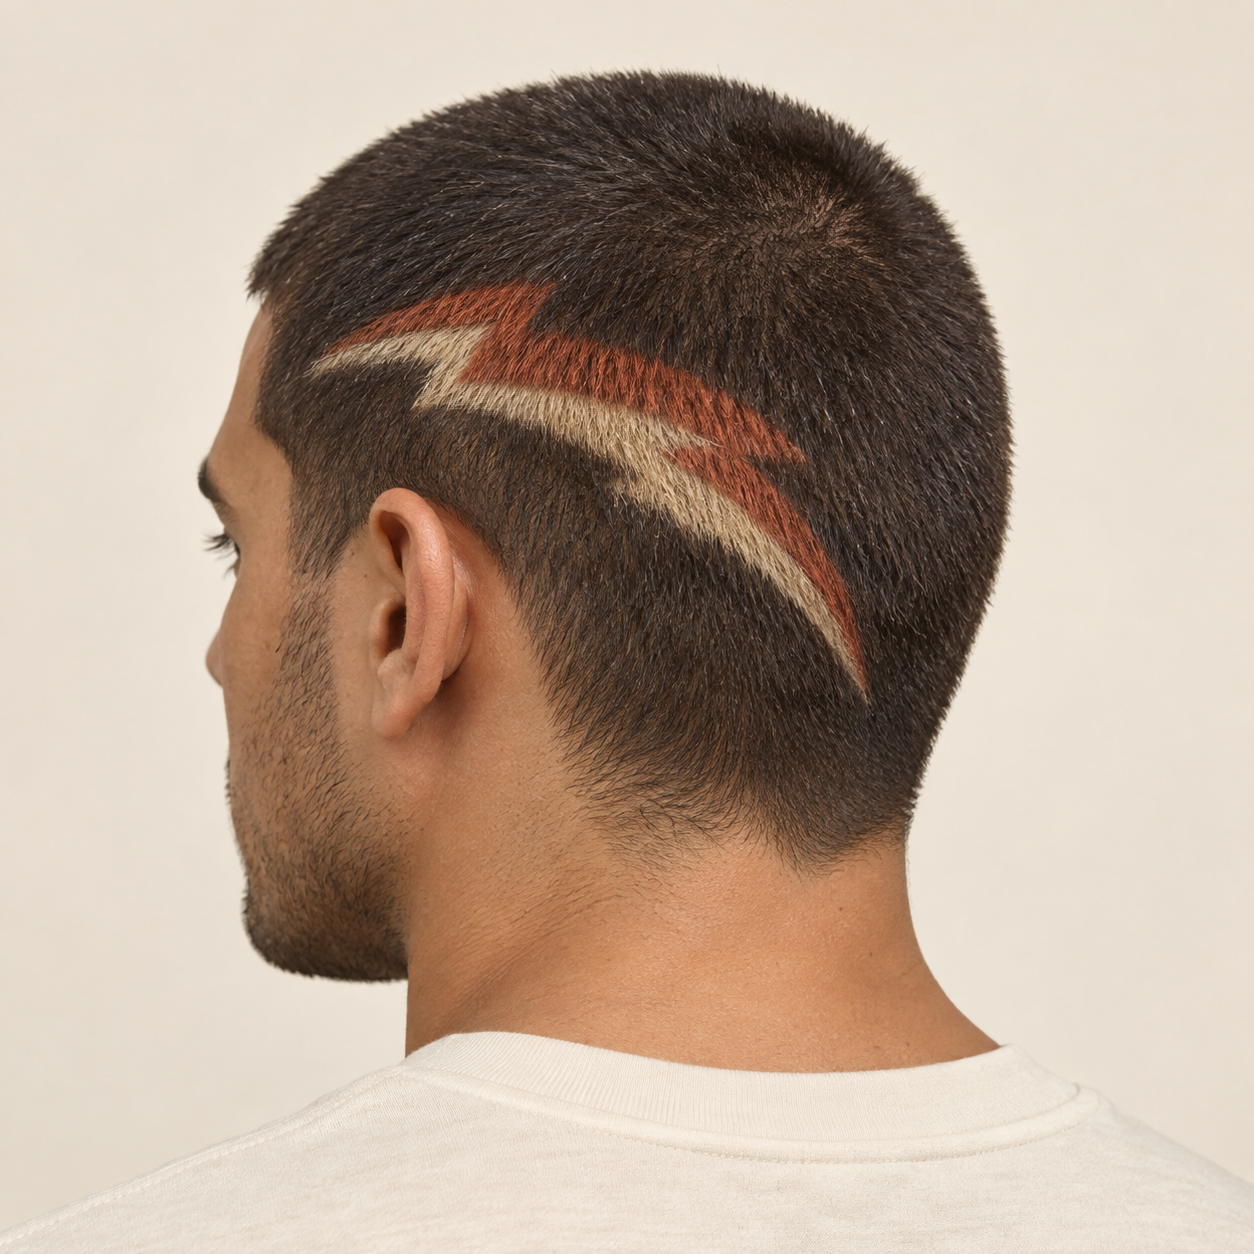
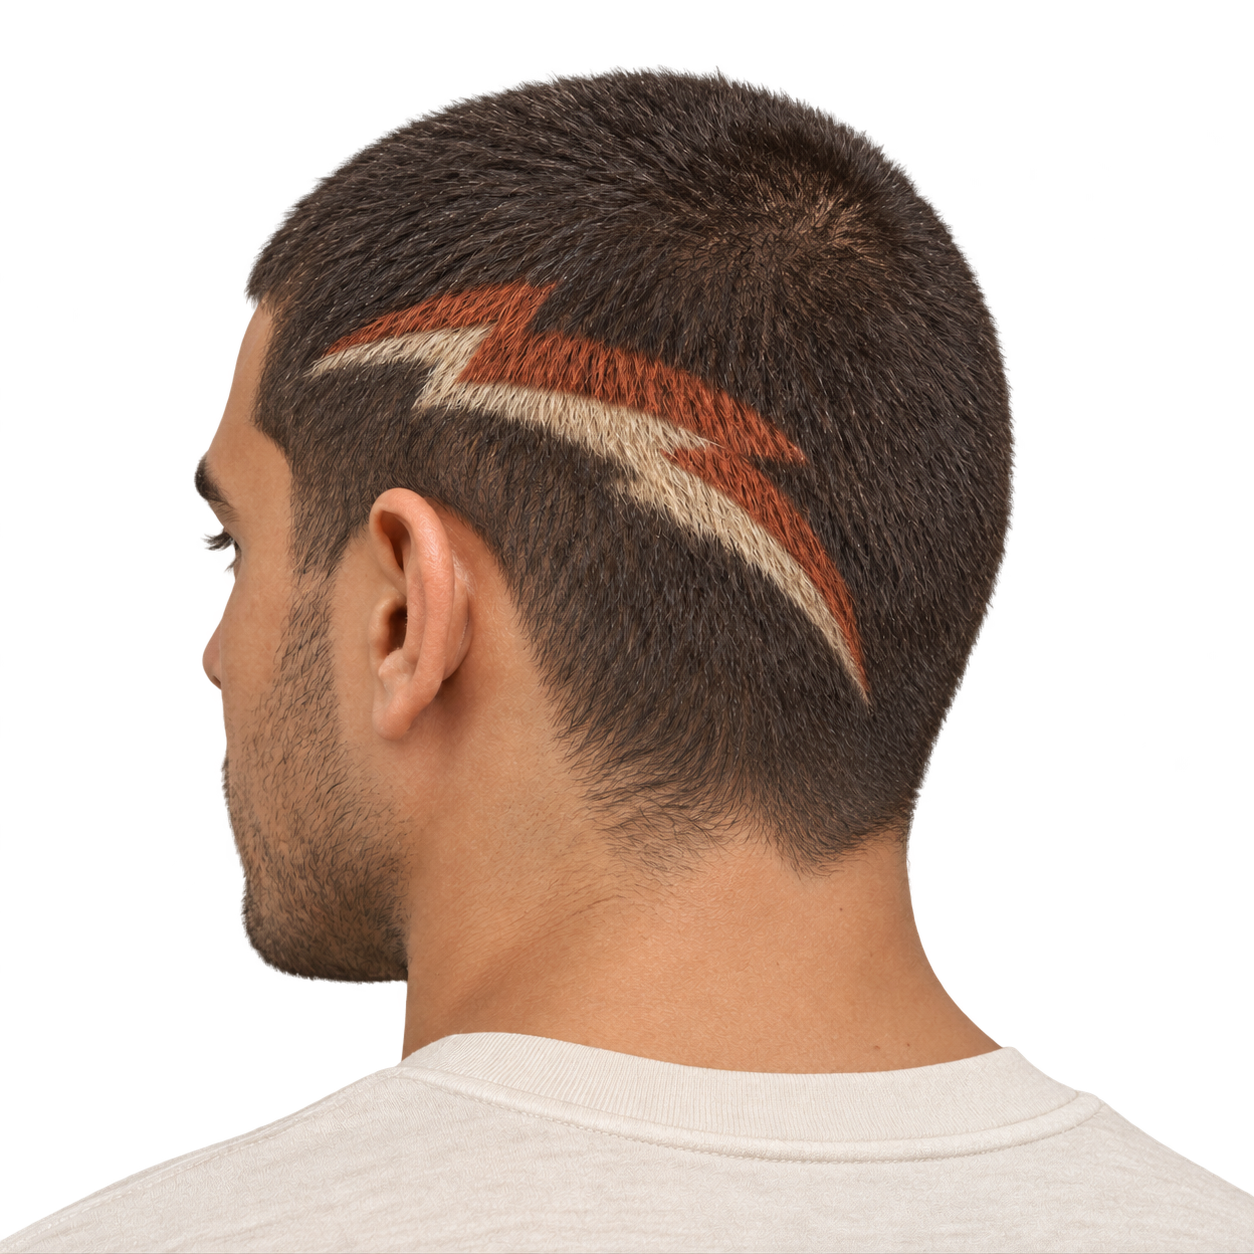
fix(media): replace 12 hairstyle gallery portraits

diff --git a/docs/media/hairstyle-image-prompts.md b/docs/media/hairstyle-image-prompts.md
@@ -1,10 +1,10 @@
 # Hairstyle image prompts
 
-The prompts below are retained verbatim as generation records. Their instruction to show an AI-generated label was superseded when the visual labels were removed; generated provenance remains in `src/content/media/`.
+Historical prompts are retained as generation records. Some originally requested an AI-generated label, which the site no longer displays. Generated provenance remains in `src/content/media/`.
 
 ## Flat-top additions — 2026-09-21
 
-Generated with OpenAI's built-in image generation tool after the Will Smith page and flat-top stub were pushed in commit `0b6d201`. No specific model identifier was returned. These fictional adults are not Will Smith, archive photographs, or reconstructions of his appearances. Inspected for a visible flat-top silhouette, complete hair framing, and absence of text or logos. Original generated PNGs are retained and their provenance is recorded in the media data.
+Generated with OpenAI's built-in image generation tool after the Will Smith page and flat-top stub were pushed in commit `0b6d201`. No specific model identifier was returned. These fictional adults are not Will Smith, archive photographs, or reconstructions of his appearances. Inspected for a visible flat-top silhouette, complete hair framing, and absence of text or logos. Generated provenance is recorded in the media data. See the gallery portrait replacements below for the updated coily flat-top image.
 
 ### flat-top-coily
 
@@ -20,7 +20,7 @@ Use case: photorealistic-natural. Asset: one square original editorial hairstyle
 
 ## Original collection
 
-Generated 2026-09-20 using OpenAI's built-in image generation tool. No specific model identifier was returned. These are fictional AI-generated reference portraits, not real clients or evidence of a person's natural hair subtype. Original PNGs are retained; Astro produces responsive WebP derivatives, and the media data preserves their generated provenance.
+Generated 2026-09-20 using OpenAI's built-in image generation tool. No specific model identifier was returned. These are fictional AI-generated reference portraits, not real clients or evidence of a person's natural hair subtype. Astro produces responsive WebP derivatives, and the media data preserves generated provenance. See the gallery portrait replacements below for updated assets.
 
 Prompts are art direction, not verified measurements of the output. Editorial captions describe visible features only.
 
@@ -333,3 +333,24 @@ Square photorealistic editorial hairstyle reference portrait. Fictional adult ma
 Asset: `src/content/assets/hairstyles/graphic-hair-color-geometric.png`
 
 Square photorealistic editorial hairstyle reference portrait. Fictional adult man with medium warm olive skin and very short even dark-brown clipper-cut hair, three-quarter rear-left angle showing rear scalp, left ear, and silhouette. A sharp two-tone geometric lightning arc colored into the short hair in muted copper-red and pale cream against natural dark brown; follows hair strands, not ink on skin, not a shaved groove, not a mohawk. Plain warm ivory studio background, cream shirt, soft daylight, realistic short hair texture. Full crown and all hair in frame. Single portrait; no collage, text, watermark, logos, hats, or celebrity likeness. Illustrative generated example, not a real person's photograph.
+
+## Gallery portrait replacements — 2026-11-21
+
+The following gallery images were regenerated with OpenAI's built-in image generation tool. Use these updated directions for future replacements. Each is a square editorial portrait of one fictional adult with a genuinely transparent RGBA background, soft neutral lighting, natural skin texture, simple cream clothing, and the full hair silhouette in frame. Use a tight head-and-shoulders crop with a little space above the hair. Angle the face away from straight-on, or show a rear three-quarter view when the haircut detail is at the back.
+
+| Asset stem                              | Haircut and composition direction                                                                                                                                         |
+| --------------------------------------- | ------------------------------------------------------------------------------------------------------------------------------------------------------------------------- |
+| `rihanna-bob-example`                   | Compact rounded asymmetrical bob on a fictional Black woman, with a deep side part and long swept fringe. Show the finished perimeter and the sweep of the fringe.        |
+| `buzz-short`                            | Uniform, very short brown buzz with visible fine stubble and no fade, on a light-skinned, freckled, androgynous adult. Show the temple and crown in three-quarter view.   |
+| `cillian-disconnected-undercut-example` | Long textured dark top over closely clipped sides with an abrupt, visible break at the temple. Use a side-biased three-quarter angle.                                     |
+| `flat-top-coily`                        | Low horizontal top plane with squared corners and graduated short sides, on a deep-brown-skinned man with tightly coiled hair and a short beard.                          |
+| `cillian-french-crop-example`           | Short textured crop with a forward fringe and sides blended into the top. Use a three-quarter view that clearly shows the fringe and temple.                              |
+| `graphic-hair-color-geometric`          | A copper-and-cream geometric lightning arc dyed into a very short dark crop. Show the design from the rear in three-quarter view.                                         |
+| `brad-pitt-long-waves-example`          | Medium-long layered waves with a near-center part. Keep the crown and layered ends visible in the square crop.                                                            |
+| `brad-pitt-swept-back-example`          | Medium-length hair swept back above a neat taper. Show the sweep and transition near the ear in three-quarter view.                                                       |
+| `ronaldo-2002-haircut-front`            | Broad, dense half-circle at the front hairline with the rest of the scalp shaved close. Use a slightly elevated three-quarter view and have the subject look to the side. |
+| `taper-coily`                           | Tight coils on top, with a low taper localized to the sideburn and nape. Use a rear three-quarter view to show the taper.                                                 |
+| `lady-gaga-top-knot-example`            | Dark hair gathered into a high top knot, with the entire bun visible and room between it and the top edge.                                                                |
+| `twists-long`                           | Jaw-length natural two-strand twists on a fictional Black woman. Show two-strand structure, soft sectioning at the crown, and the ends in three-quarter view.             |
+
+Use the match photo to reference the shape and placement of the Ronaldo patch. [2002 World Cup reference](https://www.90min.com/it/posts/30-giugno-2002-il-brasile-di-ronaldo-batte-la-germania-2-0-e-il-quinto-titolo-per-la-selecao)
